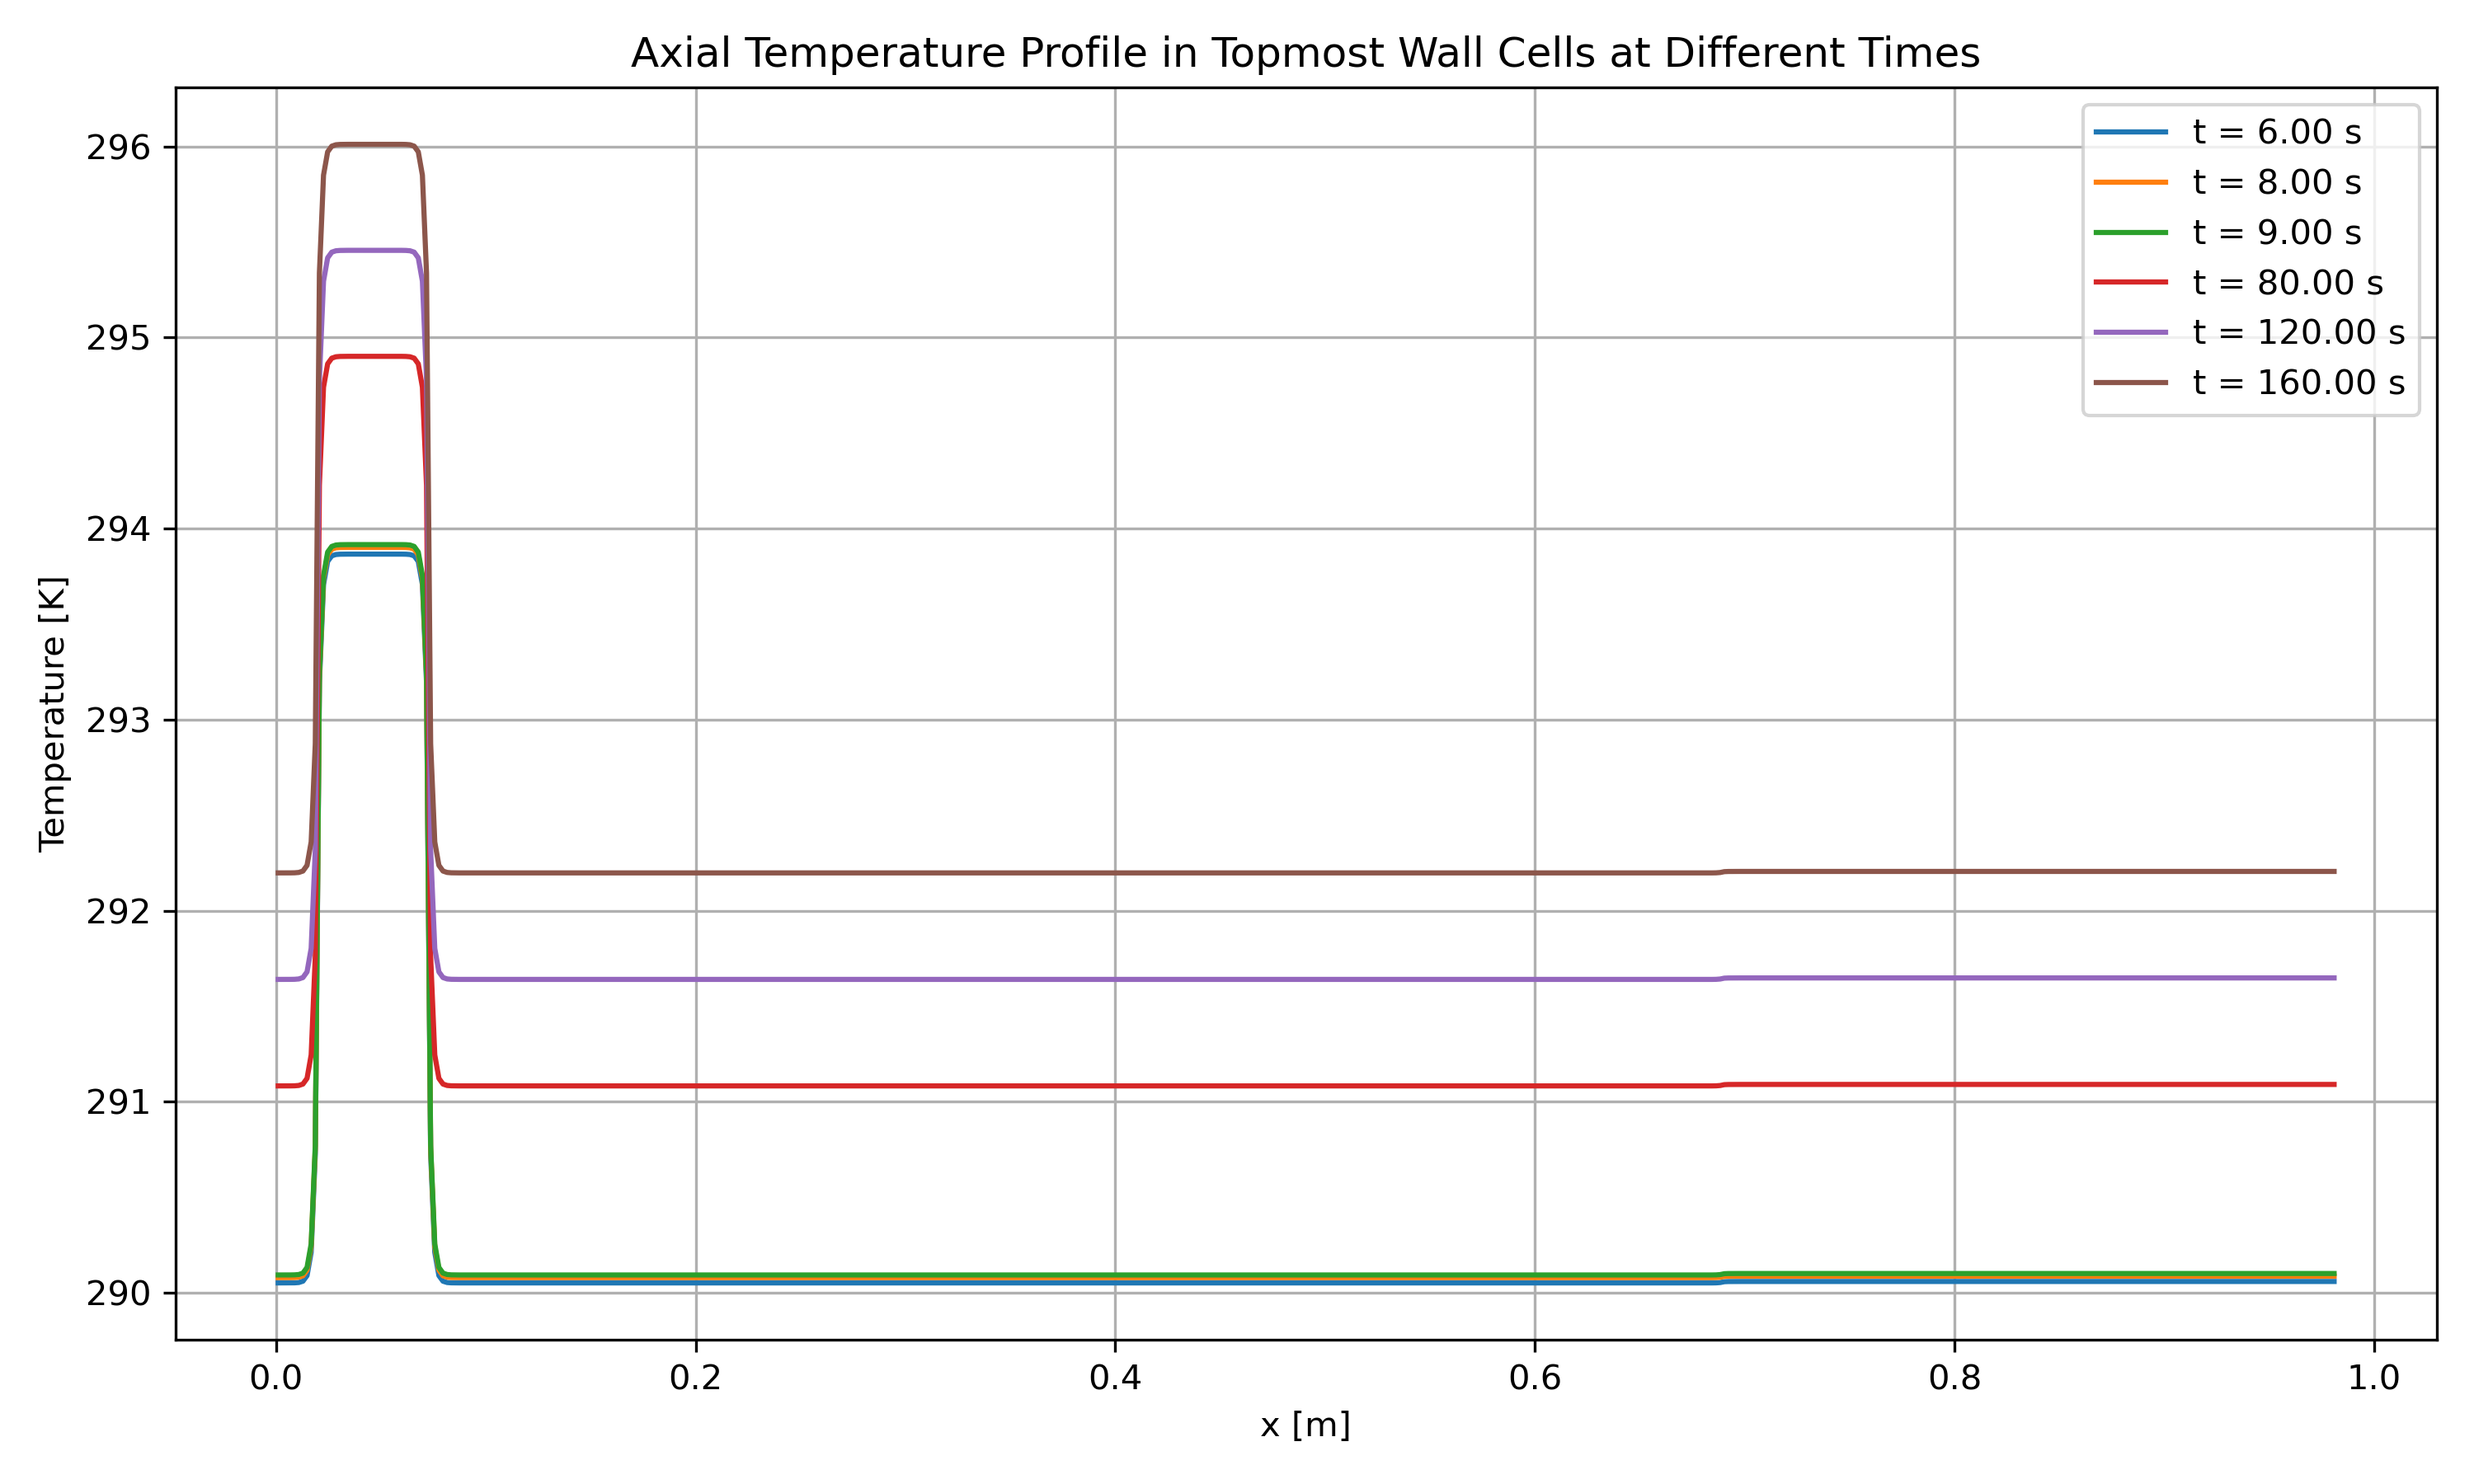
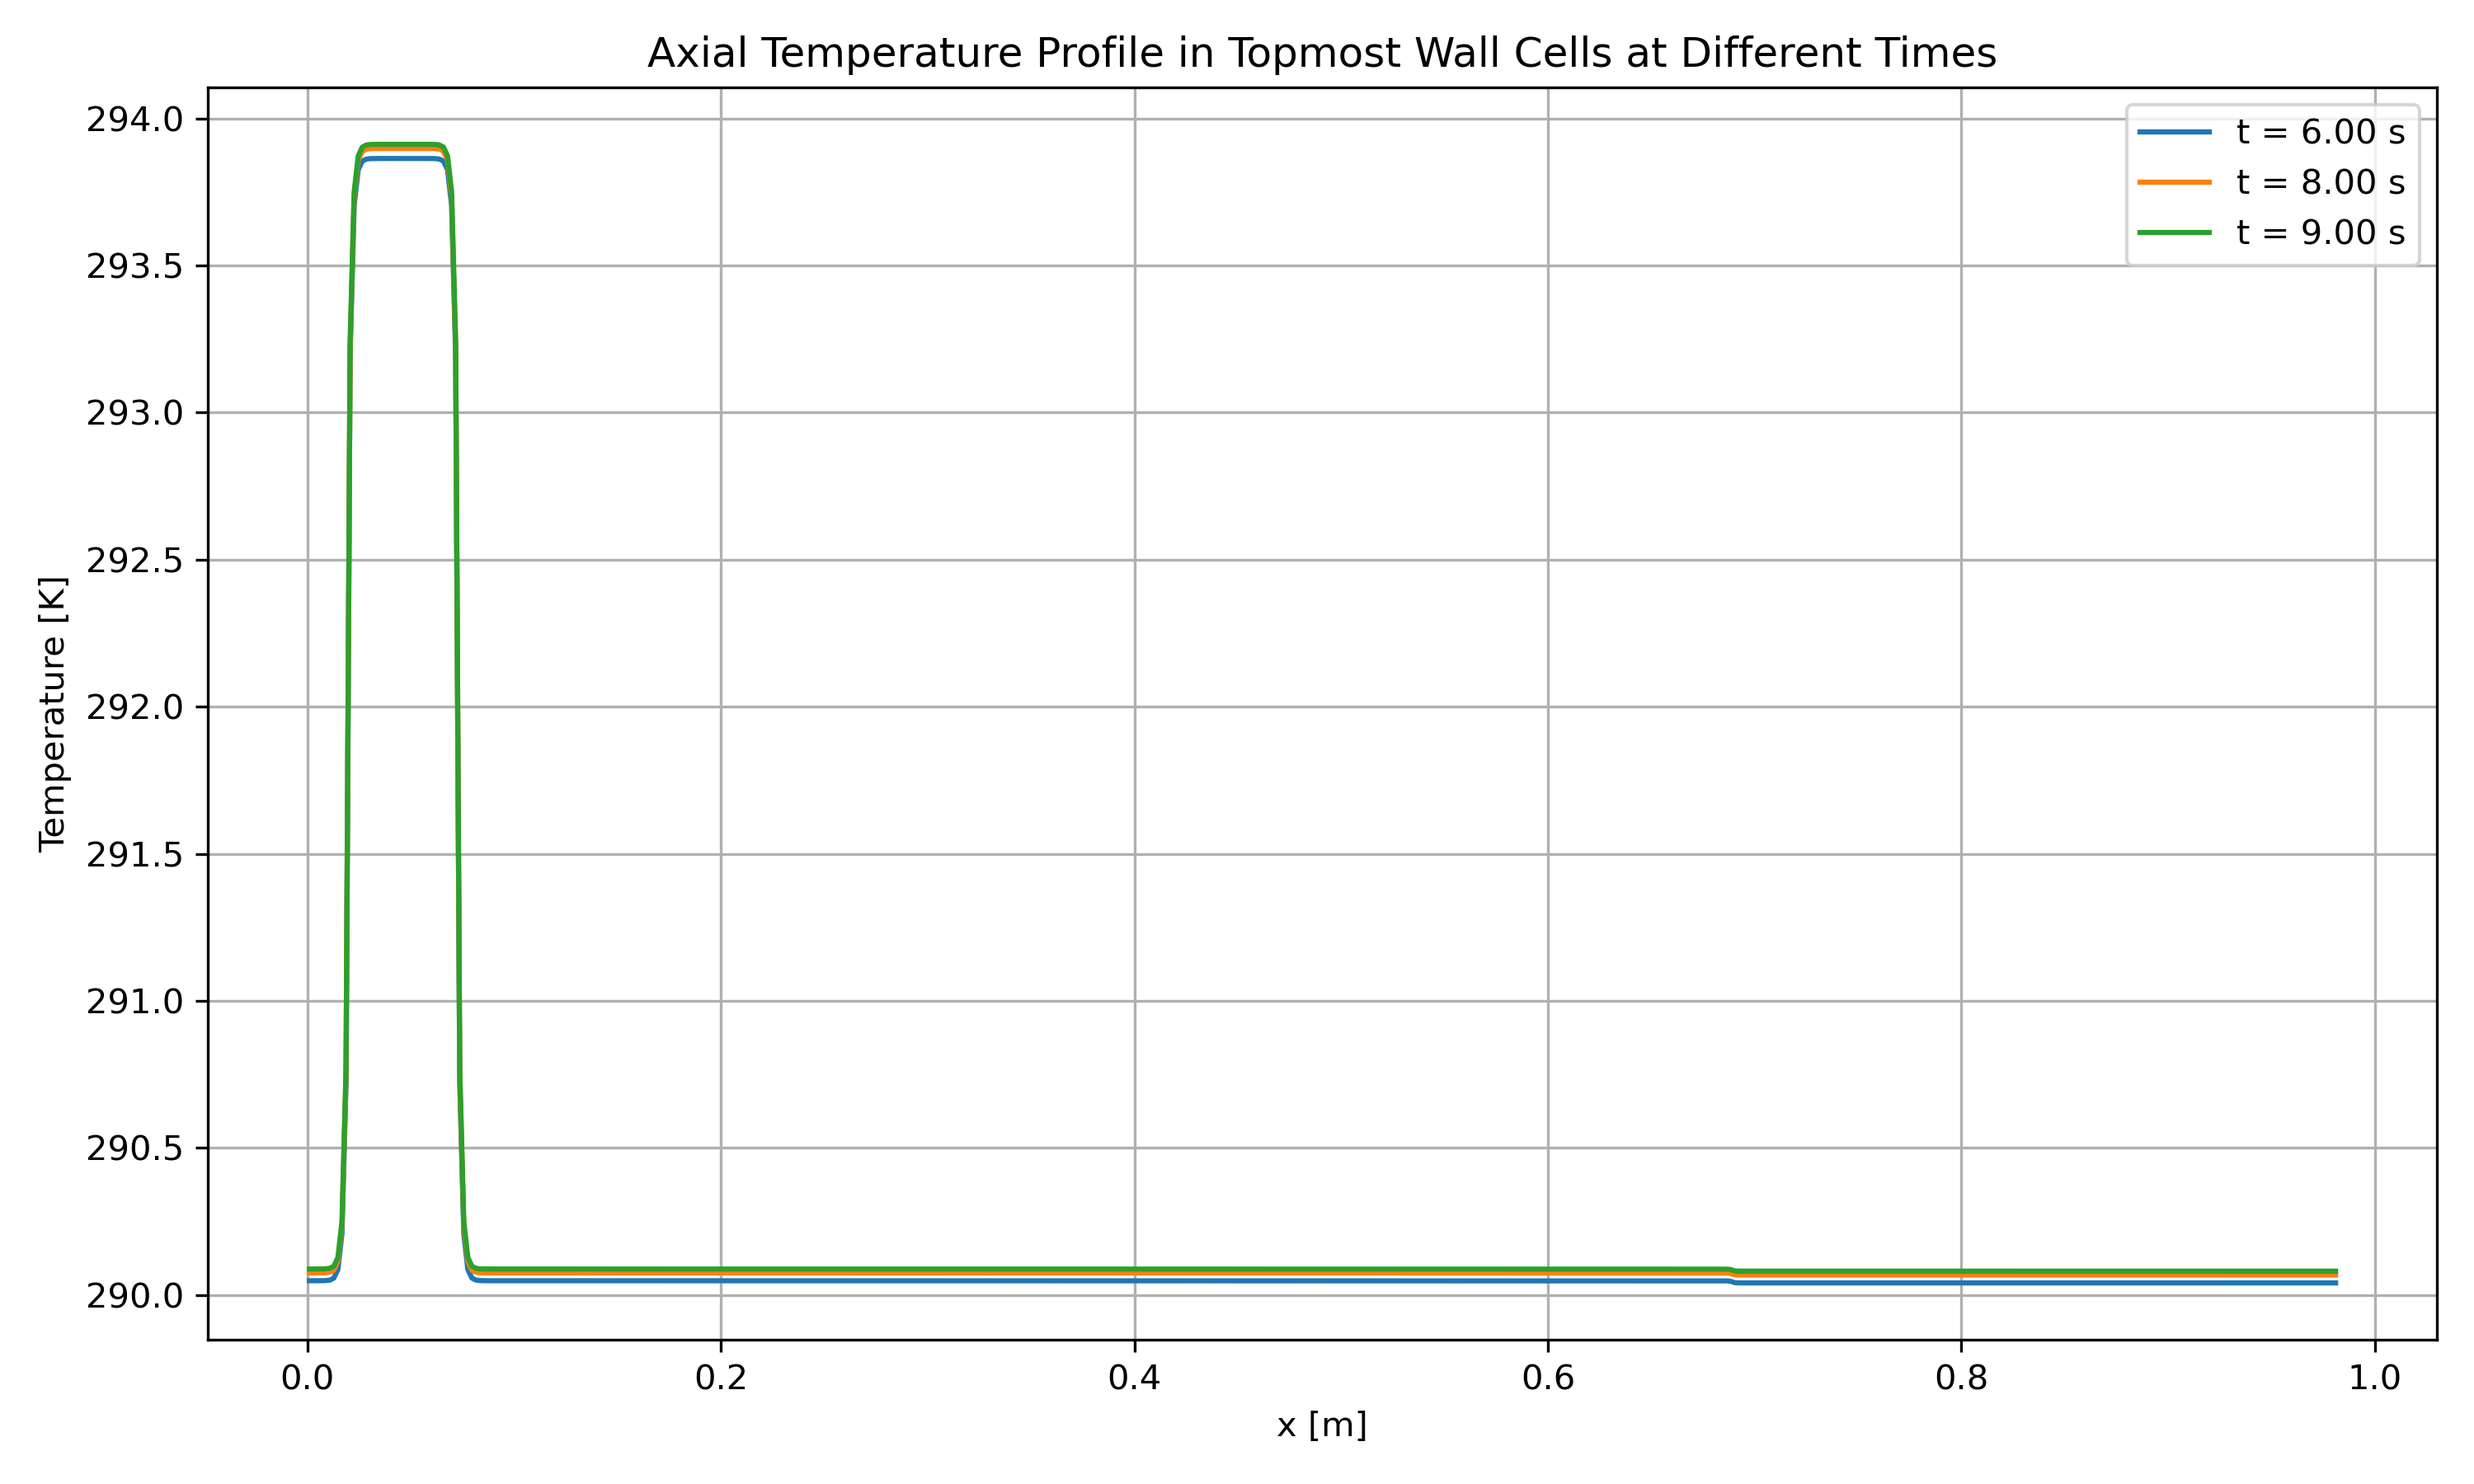
problem identified: c_p is wrong

diff --git a/src/2d/main.py b/src/2d/main.py
@@ -141,9 +141,8 @@ eq = TransientTerm(var=T) == DiffusionTerm(coeff=D_expr, var=T)
 
 x_face, y_face = mesh.faceCenters
 faces_evaporator = (mesh.facesTop & ((x_face < dimensions['L_input_right']) & (x_face > dimensions['L_input_left'])))
-# faces_condenser = (mesh.facesTop & ((x_face > dimensions['L_e'] + dimensions['L_a']) & (x_face < L_total))) # Not used
 
-cells_evaporator = (cell_types == 0) & (x_cell < dimensions['L_input_right']) & (x_cell > dimensions['L_input_left']) # Not directly used for this BC
+# cells_evaporator = (cell_types == 0) & (x_cell < dimensions['L_input_right']) & (x_cell > dimensions['L_input_left']) # Not directly used for this BC
 # cells_condenser = (cell_types == 0) & ((x_cell > dimensions['L_e'] + dimensions['L_a']) & (x_cell < L_total)) # Not used
 
 # preview_face_mask(mesh, faces_evaporator, title="Evaporator Face Mask")
@@ -170,14 +169,47 @@ source_term_K_s = volumetric_heat_source_W_m3 / (rho_cp_wall_evaporator + epsilo
 eq = TransientTerm(var=T) == (DiffusionTerm(coeff=D_expr, var=T) + source_term_K_s)
 
 
-# Apply the radiative boundary condition at the condenser faces - IGNORED AS PER REQUEST
+# # Apply the radiative boundary condition at the condenser faces
+# sigma_sb = 5.670374419e-8  # Stefan-Boltzmann constant (W/m^2/K^4) - Corrected value
+# epsilon_rad = parameters['emissivity']
+# # T_amb is available in all_params['T_amb']
+
+# Define condenser faces (top faces in the condenser section)
+# x_face, L_total, dimensions['L_e'], dimensions['L_a'] are already defined
+faces_condenser = (mesh.facesTop & (x_face > (dimensions['L_e'] + dimensions['L_a'])) & (x_face < L_total))
+# To verify the mask (optional):
+# preview_face_mask(mesh, faces_condenser, title="Condenser Face Mask for Radiation")
+
+# # The radiative heat flux is q_rad = sigma_sb * epsilon_rad * (T_surface^4 - T_ambient^4)
+# # The boundary condition is -k_wall * (dT/dn) = q_rad
+# # So, dT/dn = -q_rad / k_wall
+# # Ensure all terms are evaluated at the faces for the constraint:
+# T_face = T.arithmeticFaceValue  # Temperature at the faces
+# k_wall_at_face = steel_properties['thermal_conductivity'](T_face)  # Wall thermal conductivity at the faces
+
+# radiative_numerator_at_face = sigma_sb * epsilon_rad * (T_face**4 - all_params['T_amb']**4)
+
+# # k_wall (CellVariable) is defined earlier. We use k_wall_at_face (FaceVariable) here.
+# # epsilon_k_denom is already defined.
+# epsilon_k_denom = 1e-12 # Ensure it's available here, though defined earlier
+
+# constraint_value_radiation_at_face = -radiative_numerator_at_face / (k_wall_at_face + epsilon_k_denom)
+# T.faceGrad.constrain(constraint_value_radiation_at_face, where=faces_condenser)
+
+volumetric_heat_sink_W_m3 = (faces_condenser * parameters['Q_output_flux'] * n).divergence
+
+rho_cp_wall_condenser = rho_wall_cond * c_p_wall
+
+sink_term_K_s = volumetric_heat_sink_W_m3 / (rho_cp_wall_condenser + epsilon_source_denom)
+
+eq = TransientTerm(var=T) == (DiffusionTerm(coeff=D_expr, var=T) + source_term_K_s + sink_term_K_s)
 
 # ----------------------------------------
 # Time-stepping loop
 # ----------------------------------------
 
 # Variable to plot alongside Temperature. Options: "D_var", "k_plot_var", "rho_plot_var", "cp_plot_var"
-plot_selection = "D_var" # CHANGE THIS STRING TO VISUALIZE OTHER VARIABLES
+plot_selection = "cp_plot_var" # CHANGE THIS STRING TO VISUALIZE OTHER VARIABLES
 
 plottable_vars_map = {
     "D_var": D_var,
@@ -189,9 +221,9 @@ selected_aux_var = plottable_vars_map[plot_selection]
 
 if __name__ == "__main__":
     # Note: datamax might need adjustment based on the selected variable
-    viewer = Viewer(vars=(T, selected_aux_var), title=f"Temperature and {selected_aux_var.name} Distribution", datamin=0, datamax=3000)
+    viewer = Viewer(vars=(T, selected_aux_var), title=f"Temperature and {selected_aux_var.name} Distribution")
 
-measure_times = [300, 400, 450, 4000, 6000, 8000]  # Time points to measure temperature (t / dt)
+measure_times = [300, 400, 450]  # Time points to measure temperature (t / dt)
 
 # Find topmost wall cells: any face of the cell is a top face
 cellFaceIDs = npx.array(mesh.cellFaceIDs)  # shape: (nFacesPerCell, nCells)
